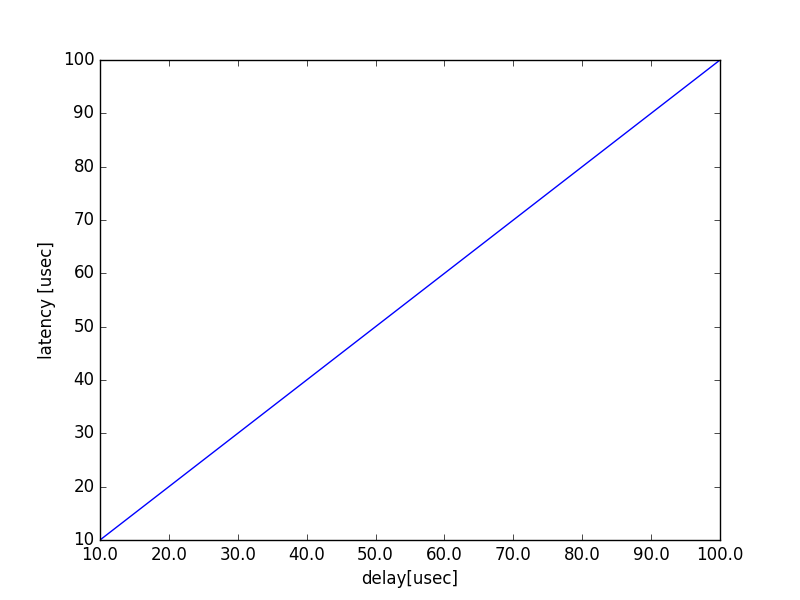
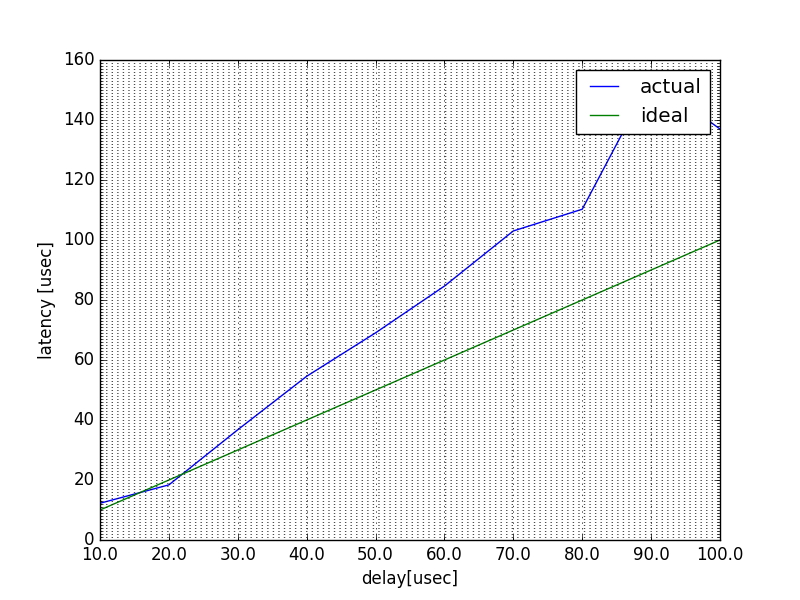
2018.04.19-19:22

Changed region(s): [[0.0625, 0.09, 0.9062, 0.93]]

diff --git a/report/img/main.py b/report/img/main.py
@@ -1,6 +1,7 @@
 #!/usr/bin/env python3
 import math, sys
 import numpy as np
+import matplotlib.ticker as tick
 import matplotlib.pyplot as plt
 plt.switch_backend('agg')
 from pprint import pprint
@@ -17,7 +18,11 @@ def exp_delay():
         plt.ylabel('latency [usec]')
         plt.xlabel('delay[usec]')
         plt.xticks(range(len(idx)), idx)
-        plt.plot(lat)
+        plt.gca().xaxis.set_minor_locator(tick.MultipleLocator(1))
+        plt.gca().yaxis.set_minor_locator(tick.MultipleLocator(1))
+        plt.grid(which='minor')
+        plt.plot(lat, label='actual')
+        plt.plot(idx, label='ideal')
         plt.legend()
         plt.savefig(outfile)
     inside('delay_us_latency.csv', 'delay_us_latency.png')
